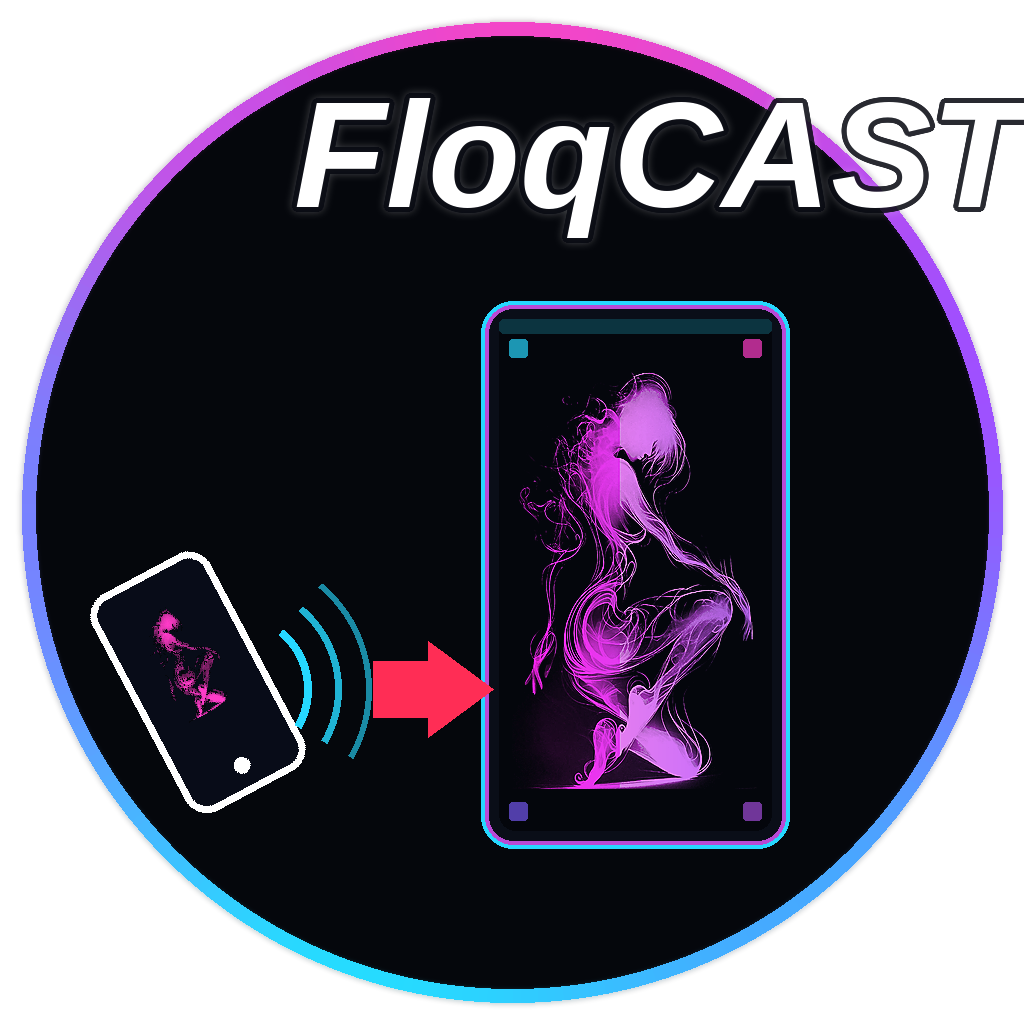
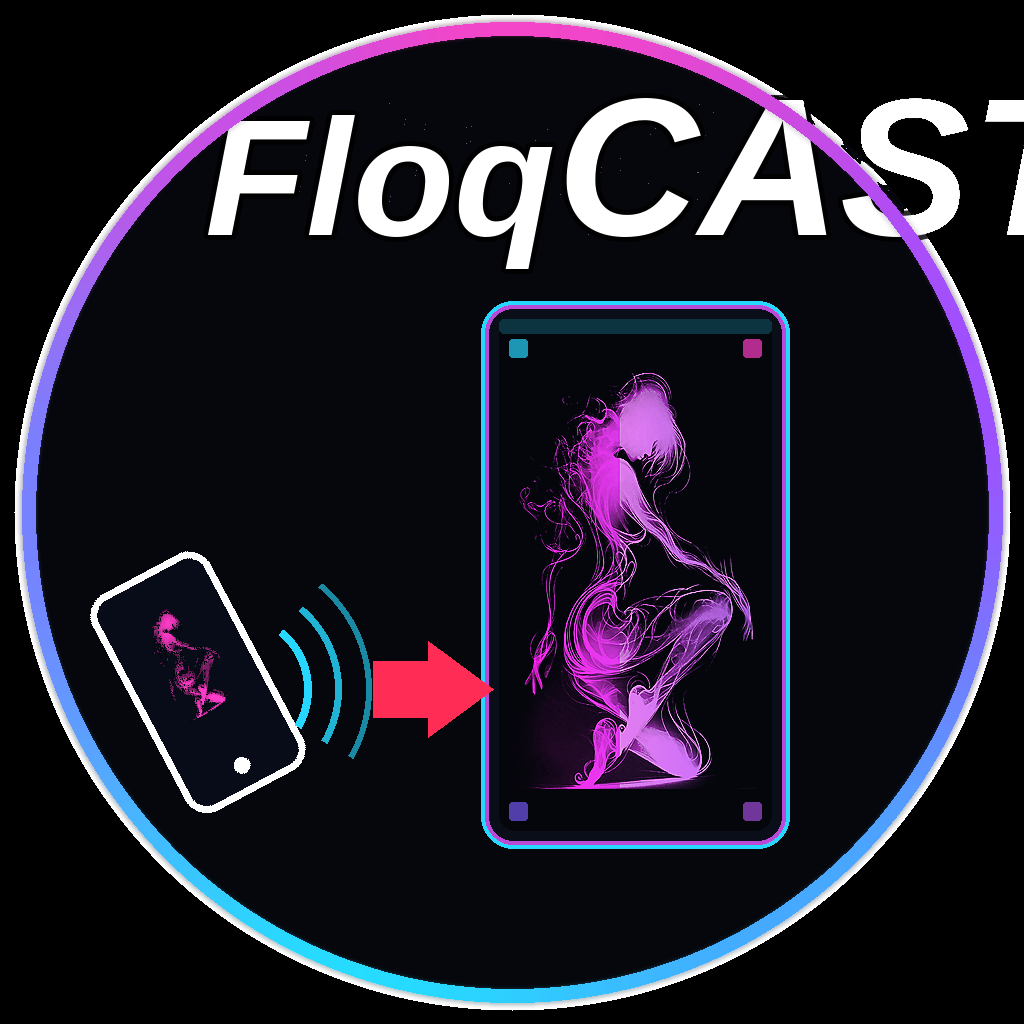
feat: FloqCAST V4 larger Floq/CAST type + black NL outside ring
Scale Floq +10% (~166px) and CAST +30% (~196px); fill outside the
nightlife ring with solid black. Cache-bust review pages to ?v=4j.

Changed region(s): [[0.0, 0.0, 1.0, 1.0]]

diff --git a/icon-review-v4-chrome-compare.html b/icon-review-v4-chrome-compare.html
@@ -116,7 +116,7 @@
       <figure class="hero">
         <figcaption>FloqCAST V4 draft <span class="tag draft">latest</span></figcaption>
         <div class="stage checker">
-          <img src="./images/review/actual-icons/floqcast-v4-circle-silhouette.png?v=4i" alt="FloqCAST V4 silhouette draft"/>
+          <img src="./images/review/actual-icons/floqcast-v4-circle-silhouette.png?v=4j" alt="FloqCAST V4 silhouette draft"/>
         </div>
       </figure>
       <figure>
@@ -226,7 +226,7 @@
       <figure class="hero">
         <figcaption>FloqCAST V4 draft <span class="tag draft">candidate</span></figcaption>
         <div class="stage checker">
-          <img src="./images/review/actual-icons/floqcast-v4-circle-silhouette.png?v=4i" alt="FloqCAST V4 silhouette draft"/>
+          <img src="./images/review/actual-icons/floqcast-v4-circle-silhouette.png?v=4j" alt="FloqCAST V4 silhouette draft"/>
         </div>
       </figure>
       <figure>
@@ -257,7 +257,7 @@
       <figure class="hero">
         <figcaption>FloqCAST V4</figcaption>
         <div class="stage checker" style="--s:160px">
-          <img src="./images/review/actual-icons/floqcast-v4-circle-silhouette.png?v=4i" alt="FloqCAST V4"/>
+          <img src="./images/review/actual-icons/floqcast-v4-circle-silhouette.png?v=4j" alt="FloqCAST V4"/>
         </div>
       </figure>
       <figure>

diff --git a/icon-review-square-green-halo.html b/icon-review-square-green-halo.html
@@ -108,15 +108,15 @@
       <h2>V4 — silhouette photo + cast chrome</h2>
       <p>
         Your silhouette cut out and neon-tinted into the LED + phone screens.
-        Transparent outside the nightlife ring. Wordmark <strong>FloqCAST</strong> — white bold-italic (ShoutOut-like),
-        +15% (~151px); <strong>F</strong> stays inside the ring (not touching); rest may extend past.
+        Solid black outside the nightlife ring. Wordmark <strong>FloqCAST</strong> — white bold-italic (ShoutOut-like):
+        <strong>Floq</strong> ~166px (+10%), <strong>CAST</strong> ~196px (+30%); <strong>F</strong> stays inside the ring (not touching); rest may extend past.
         LED nudged up clear of the chrome ring. Hard refresh if cached.
       </p>
       <div class="row">
         <figure class="hero">
           <figcaption>V4 final draft <span class="tag next">silhouette source</span></figcaption>
           <div class="checker">
-            <img src="./images/review/actual-icons/floqcast-v4-circle-silhouette.png?v=4i" alt="FloqCAST V4 silhouette circle"/>
+            <img src="./images/review/actual-icons/floqcast-v4-circle-silhouette.png?v=4j" alt="FloqCAST V4 silhouette circle"/>
           </div>
         </figure>
         <figure>
